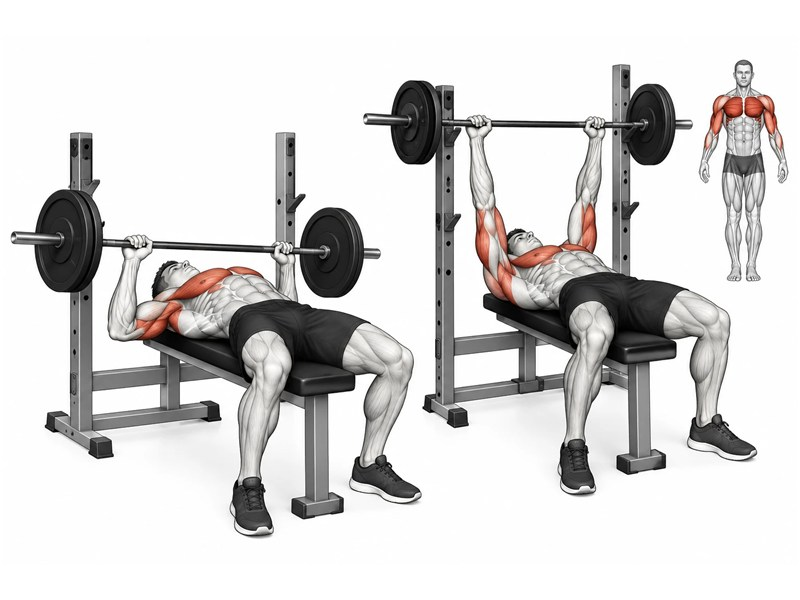
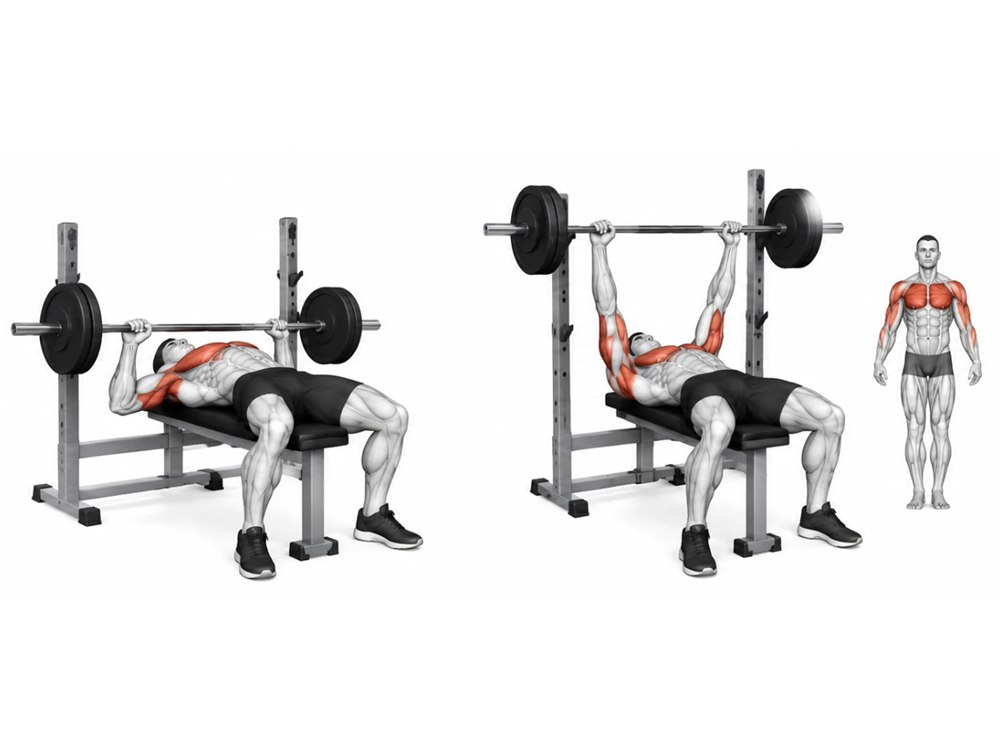
Bench Press: nieuwe illustratie (zijpanelen weggesneden, 1000x750, 62 KB)

diff --git a/index.html b/index.html
@@ -8,7 +8,7 @@
 // Zelf-verversen: een verouderde (gecachete) pagina, bv. via een icoon op het
 // beginscherm, vergelijkt zijn buildnummer met version.json en laadt zichzelf
 // dan opnieuw via een nieuwe URL (?b=...). Zie tools/bump-build.js.
-window.PRIME_BUILD = '20261004-1355';
+window.PRIME_BUILD = '20261004-1424';
 (function () {
   try {
     fetch('version.json?ts=' + Date.now(), { cache: 'no-store' })
@@ -46,12 +46,12 @@ if ('serviceWorker' in navigator) {
 <meta name="theme-color" content="#4A7C59">
 <meta name="apple-mobile-web-app-title" content="PRIME">
 <link href="https://fonts.googleapis.com/css2?family=DM+Serif+Display:ital@0;1&family=DM+Sans:wght@300;400;500;600;700&display=swap" rel="stylesheet">
-<link rel="stylesheet" href="css/styles.css?v=20261004-1355">
+<link rel="stylesheet" href="css/styles.css?v=20261004-1424">
 <!-- Supabase-client staat lokaal (vastgezet op 2.116.0), zodat inloggen niet afhangt van een externe CDN. -->
 <script src="js/vendor/supabase-2.116.0.js"></script>
-<script src="js/cloud.js?v=20261004-1355"></script>
-<script src="js/translations.js?v=20261004-1355"></script>
-<script src="js/i18n.js?v=20261004-1355"></script>
+<script src="js/cloud.js?v=20261004-1424"></script>
+<script src="js/translations.js?v=20261004-1424"></script>
+<script src="js/i18n.js?v=20261004-1424"></script>
 </head>
 <body>
 
@@ -1590,6 +1590,6 @@ if ('serviceWorker' in navigator) {
 
 </div><!-- /app-shell -->
 
-<script src="js/auth.js?v=20261004-1355"></script>
+<script src="js/auth.js?v=20261004-1424"></script>
 </body>
 </html>

diff --git a/js/data.js b/js/data.js
@@ -249,7 +249,7 @@ const EXTRA_EXERCISES = [
 
 // Cache-busting: zelfde reden als PRODUCT_PHOTO_VERSION hierboven -- ophogen
 // zodra een foto in EXTRA_EXERCISES vervangen wordt.
-const EXTRA_EXERCISE_PHOTO_VERSION = 4;
+const EXTRA_EXERCISE_PHOTO_VERSION = 5;
 EXTRA_EXERCISES.forEach(group => group.exercises.forEach(ex => { if (ex.photo && ex.photo.startsWith('images/')) ex.photo += '?v=' + EXTRA_EXERCISE_PHOTO_VERSION; }));
 
 
